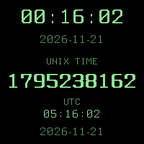
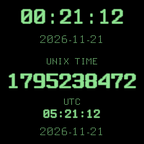
Add phosphor glow to bright text lines

diff --git a/src/c/main.c b/src/c/main.c
@@ -1,18 +1,26 @@
 #include <pebble.h>
 
 // Layout for emery (200x228). Bottom-most text ends at y=214, 14px margin.
-#define LOCAL_TIME_Y   2   // Bitham 42 Bold, h 48
-#define LOCAL_DATE_Y  50   // Gothic 18 Bold, h 22
-#define EPOCH_LABEL_Y 88   // Gothic 14, h 16
-#define EPOCH_Y       104  // Gothic 28 Bold, h 34
-#define UTC_LABEL_Y   152  // Gothic 14, h 16
-#define UTC_TIME_Y    168  // Gothic 24 Bold, h 28
-#define UTC_DATE_Y    196  // Gothic 14, h 18
+#define LOCAL_TIME_Y   2   // Terminus 36, h 48
+#define LOCAL_DATE_Y  50   // Terminus 18, h 22
+#define EPOCH_LABEL_Y 88   // Terminus 14, h 16
+#define EPOCH_Y       104  // Terminus 36 bold, h 40
+#define UTC_LABEL_Y   152  // Terminus 14, h 16
+#define UTC_TIME_Y    168  // Terminus 18, h 28
+#define UTC_DATE_Y    196  // Terminus 18, h 18
 
 static Window *s_window;
-static TextLayer *s_local_time, *s_local_date;
-static TextLayer *s_epoch_label, *s_epoch;
-static TextLayer *s_utc_label, *s_utc_time, *s_utc_date;
+static TextLayer *s_local_date, *s_epoch_label, *s_utc_label, *s_utc_date;
+
+// The three "hot" lines use custom layers so we can paint a phosphor glow.
+typedef struct {
+  char *text;
+  GFont font;
+  GSize size;
+} GlowLine;
+
+static Layer *s_local_time, *s_epoch, *s_utc_time;
+static GlowLine s_local_time_line, s_epoch_line, s_utc_time_line;
 
 static char s_local_time_buf[12], s_local_date_buf[16];
 static char s_epoch_buf[16];
@@ -46,15 +54,41 @@ static void update_time(void) {
   strftime(s_utc_time_buf, sizeof(s_utc_time_buf), "%H:%M:%S", utc_tm);
   strftime(s_utc_date_buf, sizeof(s_utc_date_buf), "%Y-%m-%d", utc_tm);
 
-  text_layer_set_text(s_local_time, s_local_time_buf);
+  layer_mark_dirty(s_local_time);
   text_layer_set_text(s_local_date, s_local_date_buf);
-  text_layer_set_text(s_epoch, s_epoch_buf);
-  text_layer_set_text(s_utc_time, s_utc_time_buf);
+  layer_mark_dirty(s_epoch);
+  layer_mark_dirty(s_utc_time);
   text_layer_set_text(s_utc_date, s_utc_date_buf);
 }
 
 static void tick_handler(struct tm *tick_time, TimeUnits changed) {
   update_time();
+}
+
+static void draw_text_at(GContext *ctx, const GlowLine *line,
+                         int dx, int dy, GColor color) {
+  graphics_context_set_text_color(ctx, color);
+  graphics_draw_text(ctx, line->text, line->font,
+                     GRect(dx, dy, line->size.w, line->size.h),
+                     GTextOverflowModeTrailingEllipsis,
+                     GTextAlignmentCenter, NULL);
+}
+
+// CRT bloom: dim halo, brighter inner ring, crisp text on top.
+static void glow_update_proc(Layer *layer, GContext *ctx) {
+  const GlowLine *line = layer_get_data(layer);
+  static const int outer[8][2] = {
+    {-1, -1}, {0, -1}, {1, -1}, {-1, 0}, {1, 0}, {-1, 1}, {0, 1}, {1, 1}
+  };
+  static const int inner[4][2] = { {0, -1}, {-1, 0}, {1, 0}, {0, 1} };
+
+  for (int i = 0; i < 8; i++) {
+    draw_text_at(ctx, line, outer[i][0], outer[i][1], GColorDarkGreen);
+  }
+  for (int i = 0; i < 4; i++) {
+    draw_text_at(ctx, line, inner[i][0], inner[i][1], GColorIslamicGreen);
+  }
+  draw_text_at(ctx, line, 0, 0, GColorGreen);
 }
 
 static TextLayer *text_layer_new(GRect frame, GFont font, GColor color) {
@@ -64,6 +98,17 @@ static TextLayer *text_layer_new(GRect frame, GFont font, GColor color) {
   text_layer_set_font(layer, font);
   text_layer_set_text_alignment(layer, GTextAlignmentCenter);
   layer_add_child(window_get_root_layer(s_window), text_layer_get_layer(layer));
+  return layer;
+}
+
+static Layer *glow_layer_new(const GlowLine *src, GRect frame, GFont font) {
+  Layer *layer = layer_create_with_data(frame, sizeof(GlowLine));
+  GlowLine *line = layer_get_data(layer);
+  *line = *src;
+  line->font = font;
+  line->size = frame.size;
+  layer_set_update_proc(layer, glow_update_proc);
+  layer_add_child(window_get_root_layer(s_window), layer);
   return layer;
 }
 
@@ -79,20 +124,23 @@ static void window_load(Window *window) {
   s_font_date = fonts_load_custom_font(resource_get_handle(RESOURCE_ID_FONT_TERM_18));
   s_font_label = fonts_load_custom_font(resource_get_handle(RESOURCE_ID_FONT_TERM_14));
 
-  s_local_time = text_layer_new(GRect(0, LOCAL_TIME_Y, w, 48),
-                                s_font_local, GColorGreen);
+  s_local_time_line.text = s_local_time_buf;
+  s_local_time = glow_layer_new(&s_local_time_line,
+                                GRect(0, LOCAL_TIME_Y, w, 48), s_font_local);
   s_local_date = text_layer_new(GRect(0, LOCAL_DATE_Y, w, 22),
                                 s_font_date, GColorIslamicGreen);
   s_epoch_label = text_layer_new(GRect(0, EPOCH_LABEL_Y, w, 16),
                                  s_font_label, GColorIslamicGreen);
   text_layer_set_text(s_epoch_label, "UNIX TIME");
-  s_epoch = text_layer_new(GRect(0, EPOCH_Y, w, 40),
-                           s_font_epoch, GColorGreen);
+  s_epoch_line.text = s_epoch_buf;
+  s_epoch = glow_layer_new(&s_epoch_line,
+                           GRect(0, EPOCH_Y, w, 40), s_font_epoch);
   s_utc_label = text_layer_new(GRect(0, UTC_LABEL_Y, w, 16),
                                s_font_label, GColorIslamicGreen);
   text_layer_set_text(s_utc_label, "UTC");
-  s_utc_time = text_layer_new(GRect(0, UTC_TIME_Y, w, 28),
-                              s_font_utc, GColorGreen);
+  s_utc_time_line.text = s_utc_time_buf;
+  s_utc_time = glow_layer_new(&s_utc_time_line,
+                              GRect(0, UTC_TIME_Y, w, 28), s_font_utc);
   s_utc_date = text_layer_new(GRect(0, UTC_DATE_Y, w, 18),
                               s_font_date, GColorIslamicGreen);
 
@@ -100,12 +148,12 @@ static void window_load(Window *window) {
 }
 
 static void window_unload(Window *window) {
-  text_layer_destroy(s_local_time);
+  layer_destroy(s_local_time);
+  layer_destroy(s_epoch);
+  layer_destroy(s_utc_time);
   text_layer_destroy(s_local_date);
   text_layer_destroy(s_epoch_label);
-  text_layer_destroy(s_epoch);
   text_layer_destroy(s_utc_label);
-  text_layer_destroy(s_utc_time);
   text_layer_destroy(s_utc_date);
   fonts_unload_custom_font(s_font_local);
   fonts_unload_custom_font(s_font_epoch);
